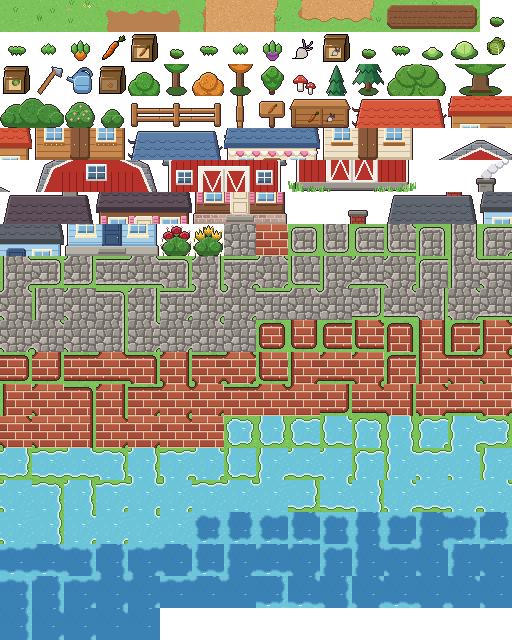
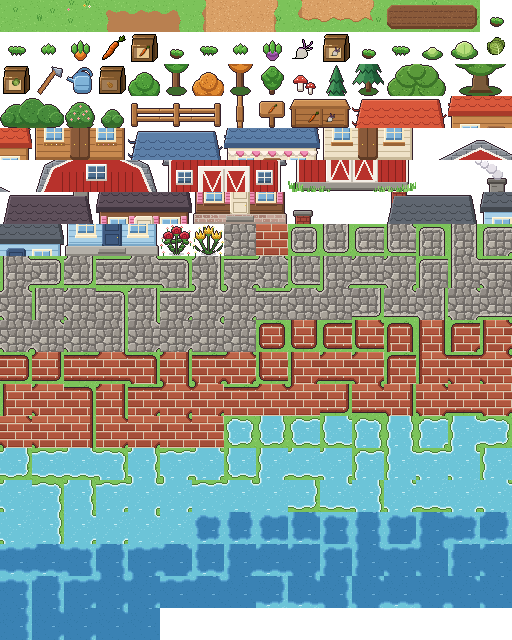
Art: flower stems and leaves, side chimneys, child villager
Roses and tulips now stand on three stems with leaves instead of a leafy lump.
Chimneys sit at the end of each roof (brown house right, blue house left).
New villager_child sheet: red long-sleeve shirt, brown trousers, red baseball
cap with hair showing underneath, on a shorter body.

Claude-Session: https://claude.ai/code/session_01JZv9D8eG6iRnc3yJzRKhZf

diff --git a/tools/make_art.py b/tools/make_art.py
@@ -216,19 +216,24 @@ def shrub_small():  # low single bush, about half the flowering shrub's size
     speckle(im, [light, dark], 25, (6, 12, 27, 30), lambda x, y: im.getpixel((x, y))[:3] == C(base)[:3])
     return outline(im)
 
-def flower_patch(kind):  # three big blooms on one leafy bundle, small matching flowers scattered round it into the grass
+def flower_patch(kind):  # three big blooms on stems with leaves, small matching flowers scattered round it into the grass
     im = new(); d = ImageDraw.Draw(im); fr = random.Random(11 if kind == 'roses' else 12)
     G2 = ('#4a8e3c', '#66ae50', '#326a2a')
     if kind == 'roses': bloom, bloom_l, bloom_d, small = '#c8283a', '#ec5a64', '#8a1828', ('#e04a58', '#f48a96')
     else: bloom, bloom_l, bloom_d, small = '#f2c230', '#fde27a', '#b8801a', ('#f6d04d', '#fff0a0')
-    shape(im, lambda d: d.ellipse([5, 25, 27, 31]), '#3c6b2c', None, None)
-    for cx, cy, r in ((16, 21, 8), (9, 24, 6), (23, 24, 6)):  # the leafy bundle
-        shape(im, lambda d, cx=cx, cy=cy, r=r: d.ellipse([cx - r, cy - r, cx + r, min(cy + r, 29)]), *G2)
-    d = ImageDraw.Draw(im)
-    for _ in range(20):  # leaf texture (own random, so the shared one stays in step for later tiles)
-        x, y = fr.randrange(3, 29), fr.randrange(13, 30)
-        if im.getpixel((x, y))[:3] == C(G2[0])[:3]: d.point((x, y), C(fr.choice(G2[1:])))
-    for (x0, y0), (cx, cy) in zip(((16, 18), (11, 21), (21, 21)), ((16, 7), (8, 12), (24, 12))): d.line([(x0, y0), (cx, cy + 3)], C('#3e7a32'))
+    d.ellipse([9, 28, 23, 31], (0, 0, 0, 50))  # soft shadow where the stems meet the ground
+    STEM, LEAF, LEAF_L, LEAF_D = '#3e7a32', '#4e9440', '#6cb455', '#326a2a'
+    for (x0, y0), (cx, cy) in zip(((16, 29), (14, 29), (18, 29)), ((16, 7), (8, 12), (24, 12))):  # three stems from one bundle
+        d.line([(x0, y0), ((x0 + cx) // 2, (y0 + cy) // 2 + 2), (cx, cy + 3)], C(STEM))
+    if kind == 'roses':  # small oval leaves in pairs along the stems
+        leaves = [(11, 22, -1), (21, 22, 1), (14, 17, -1), (18, 16, 1), (7, 18, -1), (25, 18, 1), (13, 25, -1), (19, 25, 1)]
+        for x, y, k in leaves:
+            shape(im, lambda d, x=x, y=y, k=k: d.ellipse([x - 2 + k, y - 1, x + 2 + k, y + 1]), LEAF, LEAF_L, LEAF_D, 1)
+            d.point((x + k, y), C(LEAF_D))
+    else:  # long blade leaves curving up from the base
+        for pts in (((15, 29), (10, 22), (8, 17), (11, 22), (16, 28)), ((17, 29), (22, 22), (25, 18), (21, 23), (17, 28)),
+                    ((14, 29), (5, 25), (3, 22), (7, 26), (15, 28)), ((18, 29), (27, 25), (29, 22), (25, 26), (18, 28))):
+            shape(im, lambda d, pts=pts: d.polygon(pts), LEAF, LEAF_L, LEAF_D, 1)
     for cx, cy in ((16, 7), (8, 12), (24, 12)):
         if kind == 'roses':  # round bloom with a spiral of darker petal edges
             shape(im, lambda d, cx=cx, cy=cy: d.ellipse([cx - 4, cy - 4, cx + 4, cy + 3]), bloom, bloom_l, bloom_d, 1)
@@ -418,19 +423,19 @@ def barn():  # 128x128 red gambrel barn with white trim, grey shingles behind th
     for x in list(range(15, 37, 4)) + list(range(92, 114, 4)): tuft(x + tr.randrange(-1, 2), 127, 3, 5)  # along the footing
     for x in (40, 87): tuft(x, 127, 3, 3)  # a little at the door posts, doorway kept clear
     return im
-def cottage(wall, wall_l, wall_d, roof, roof_l, roof_d, door, door_l, door_d, chimney, shutters=None, brick_base=False, smoke=False):
-    """96x128 house (3x4 tiles): siding walls, shingle roof, chimney poking above it; the top row holds chimney and smoke."""
+def cottage(wall, wall_l, wall_d, roof, roof_l, roof_d, door, door_l, door_d, chimney, shutters=None, brick_base=False, smoke=False, cx=76):
+    """96x128 house (3x4 tiles): siding walls, shingle roof, chimney at one end of the roof (cx = its left edge); the top row holds chimney and smoke."""
     im = new(96, 128); d = ImageDraw.Draw(im)
     if chimney == 'brick':
-        shape(im, lambda d: d.rectangle([63, 22, 76, 56]), '#a8483a', '#c46050', '#7a3028', 1)
+        shape(im, lambda d: d.rectangle([cx, 22, cx + 13, 56]), '#a8483a', '#c46050', '#7a3028', 1)
         for y in range(25, 56, 4):
-            d.line([(64, y), (75, y)], C('#7a3028'))
-            for x in range(64 + (y // 4 % 2) * 3, 76, 6): d.line([(x, y - 3), (x, y - 1)], C('#7a3028'))
-        shape(im, lambda d: d.rectangle([61, 19, 78, 23]), '#8a8680', '#a8a49e', '#625e58', 1)
+            d.line([(cx + 1, y), (cx + 12, y)], C('#7a3028'))
+            for x in range(cx + 1 + (y // 4 % 2) * 3, cx + 13, 6): d.line([(x, y - 3), (x, y - 1)], C('#7a3028'))
+        shape(im, lambda d: d.rectangle([cx - 2, 19, cx + 15, 23]), '#8a8680', '#a8a49e', '#625e58', 1)
     else:  # fieldstone
-        shape(im, lambda d: d.rectangle([63, 22, 76, 56]), '#8e8a84', '#aaa69e', '#66625c', 1)
-        for x, y in ((65, 26), (71, 31), (66, 37), (72, 43), (65, 48), (70, 52)): d.line([(x, y), (x + 4, y)], C('#66625c'))
-        shape(im, lambda d: d.rectangle([61, 19, 78, 23]), '#6e6a64', '#8e8a84', '#4e4a46', 1)
+        shape(im, lambda d: d.rectangle([cx, 22, cx + 13, 56]), '#8e8a84', '#aaa69e', '#66625c', 1)
+        for x, y in ((cx + 2, 26), (cx + 8, 31), (cx + 3, 37), (cx + 9, 43), (cx + 2, 48), (cx + 7, 52)): d.line([(x, y), (x + 4, y)], C('#66625c'))
+        shape(im, lambda d: d.rectangle([cx - 2, 19, cx + 15, 23]), '#6e6a64', '#8e8a84', '#4e4a46', 1)
     shape(im, lambda d: d.rectangle([4, 78, 91, 118]), wall, wall_l, wall_d)
     for y in range(84, 118, 6): d.line([(5, y), (90, y)], C(wall_d))  # lap siding
     shape(im, lambda d: d.polygon([(0, 82), (10, 36), (86, 36), (95, 82)]), roof, roof_l, roof_d, 3)
@@ -462,8 +467,9 @@ def cottage(wall, wall_l, wall_d, roof, roof_l, roof_d, door, door_l, door_d, ch
         shape(im, lambda d: d.rectangle([2, 118, 93, 127]), '#b4b0a8', '#cac6be', '#8a867e', 1)
     shape(im, lambda d: d.rectangle([34, 120, 61, 125]), '#9a968e', '#b4b0a8', '#706c66', 1)  # door step
     outline(im)
-    if smoke:  # soft puffs drifting up and to the right, lighter as they rise
-        for (cx, cy, r), col in zip(((70, 14, 5), (76, 8, 5), (83, 4, 4), (89, 1, 3)), ('#d8d4dc', '#e2dee6', '#ece8f0', '#f4f2f6')):
+    if smoke:  # soft puffs drifting up and away from the roof's end, lighter as they rise
+        k = -1 if cx > 48 else 1
+        for (cx, cy, r), col in zip(((cx + 7, 14, 5), (cx + 7 + 6 * k, 8, 5), (cx + 7 + 13 * k, 4, 4), (cx + 7 + 19 * k, 1, 3)), ('#d8d4dc', '#e2dee6', '#ece8f0', '#f4f2f6')):
             sm = new(96, 128)
             shape(sm, lambda d, cx=cx, cy=cy, r=r: d.ellipse([cx - r, cy - r, cx + r, cy + r]), col, '#ffffff', '#aaa6b4', 1)
             sm.putalpha(sm.getchannel('A').point(lambda a: a * 215 // 255)); im.alpha_composite(sm)
@@ -551,6 +557,13 @@ def farmer(p):
                 if dir_ == 1: pts = [(32 - x, y) for x, y in pts]
                 shape(im, lambda d: d.polygon(pts), H, Hl, Hd, 1)
             if p['long'] and dir_ == 3: shape(im, lambda d: d.rounded_rectangle([8, 10, 24, 23], 5), H, Hl, Hd)
+            if p.get('cap'):  # baseball cap over the hair: crown, then the brim facing the way the head does
+                K, Kl, Kd = p['cap']
+                shape(im, lambda d: d.chord([7, 0, 25, 15], 180, 360), K, Kl, Kd, 1)
+                d = ImageDraw.Draw(im); d.line([(16, 1), (16, 6)], C(Kd)); d.point((16, 0), C(Kl))
+                if dir_ == 0: shape(im, lambda d: d.rounded_rectangle([8, 6, 24, 8], 1), Kd, K, None)
+                elif side: shape(im, lambda d: d.rectangle([3, 6, 13, 8] if dir_ == 1 else [19, 6, 29, 8]), Kd, K, None)
+                else: d.rectangle([14, 6, 18, 7], C(H))  # strap gap at the back
             if p.get('tail') and dir_ == 3:
                 shape(im, lambda d: d.rounded_rectangle([14, 12, 18, 24], 2), H, Hl, Hd, 1); d = ImageDraw.Draw(im); d.line([(14, 12), (18, 12)], C(p['tie']))
             if p.get('tail') and side: d = ImageDraw.Draw(im); tx = 22 if dir_ == 1 else 5; d.line([(tx, 7), (tx + 5, 7)], C(p['tie']))
@@ -559,6 +572,9 @@ def farmer(p):
                 for a, b in ((0, -1), (0, 1), (-1, 0), (1, 0)): d.point((cx + a, cy + b), C(p['clip']))
                 d.point((cx, cy), C('#f6d04d'))
             outline(im)
+            if p.get('child'):  # shorter body under the same head: drop two torso rows and two leg rows
+                rows = [y for y in range(S) if y not in (19, 20, 25, 26)]
+                short = new(); [short.paste(im.crop((0, y, S, y + 1)), (0, 4 + i)) for i, y in enumerate(rows)]; im = short
             sheet.alpha_composite(im, (f * S, dir_ * S))
     return sheet
 
@@ -578,6 +594,10 @@ VILLAGER_F = dict(hair='#7a4a2c', hair_l='#9a6440', hair_d='#55321e', shirt='#f2
                   pants='#4a6aa8', pants_d='#34508a', long=False, tail=True, tie='#c8343a', sweater=True,
                   fringe=[(7, 11), (8, 3), (12, 1), (20, 1), (24, 3), (25, 11), (23, 8), (20, 5), (15, 5), (11, 6), (9, 9)],
                   side=[(7, 11), (8, 3), (13, 1), (20, 1), (25, 4), (25, 8), (20, 6), (14, 6), (11, 8), (9, 12)])
+VILLAGER_KID = dict(hair='#c8803a', hair_l='#e09a52', hair_d='#8a5228', shirt='#d8383e', shirt_l='#ee6066', shirt_d='#9a2430', accent='#ee6066', eye='#4a3a2a', eye_l='#8a6a4a',
+                    pants='#8a5a36', pants_d='#5f3b25', long=False, sweater=True, child=True, cap=('#d8383e', '#ee6066', '#9a2430'),
+                    fringe=[(7, 13), (8, 6), (24, 6), (25, 13), (23, 10), (22, 12), (20, 9), (12, 9), (10, 12), (9, 10)],
+                    side=[(7, 7), (17, 7), (15, 10), (13, 13), (9, 15), (7, 12)])
 
 # ---------- assemble ----------
 cells, names = [], {}
@@ -604,8 +624,8 @@ add('house', building('#d9583b', '#f07a5a', '#a83a2a', '#c88a50', '#e0a96a', '#9
 add('shop', building('#5c7fa8', '#7fa3c8', '#3f5a80', '#efe2c8', '#fff4dc', '#c8b898', awning=True))
 add('barn', barn())
 add('house_brown', cottage('#8a5a3a', '#a87050', '#64402a', '#5e4f5a', '#7a6a76', '#3f343e', '#efe2c8', '#fff4dc', '#b8a888', 'stone',
-                           shutters=('#f28fb8', '#f9b4d0', '#c45e7a'), brick_base=True, smoke=True))
-add('house_blue', cottage('#a8d0e8', '#c8e4f4', '#7aa8c8', '#5f6670', '#7c838c', '#43484f', '#3f5a80', '#5c7fa8', '#2a3e5c', 'brick'))
+                           shutters=('#f28fb8', '#f9b4d0', '#c45e7a'), brick_base=True, smoke=True, cx=74))
+add('house_blue', cottage('#a8d0e8', '#c8e4f4', '#7aa8c8', '#5f6670', '#7c838c', '#43484f', '#3f5a80', '#5c7fa8', '#2a3e5c', 'brick', cx=8))
 add('roses', flower_patch('roses')); add('tulips', flower_patch('tulips'))
 COB, BRK, SHAL, DEEP = cobble_tex(), brick_tex(), water_tex('#6cc4d8', '#86d2e2', '#c4eef4'), water_tex('#3a82b4', '#327aa8', '#6eb0d8')
 add('cobble0', COB); add('brick0', BRK)
@@ -618,6 +638,7 @@ import os; os.makedirs('assets/art', exist_ok=True)
 sheet.save('assets/art/world.png')
 farmer(MALE).save('assets/characters/farmer_male.png'); farmer(FEMALE).save('assets/characters/farmer_female.png')
 farmer(VILLAGER_M).save('assets/characters/villager_male.png'); farmer(VILLAGER_F).save('assets/characters/villager_female.png')
+farmer(VILLAGER_KID).save('assets/characters/villager_child.png')
 with open('src/art-index.js', 'w') as f:
     f.write('// Generated by tools/make_art.py: tile names -> index in assets/art/world.png (16 columns of 32x32).\n')
     f.write('export const A = ' + str(names).replace("'", '"') + ';\n')
